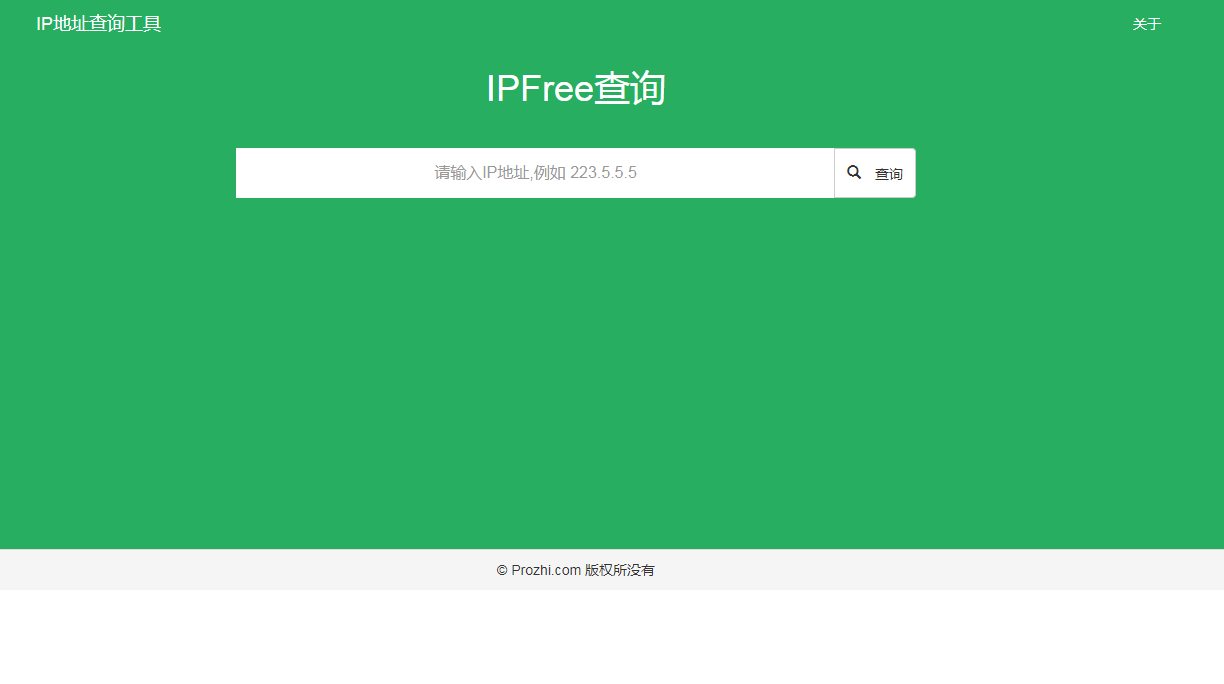
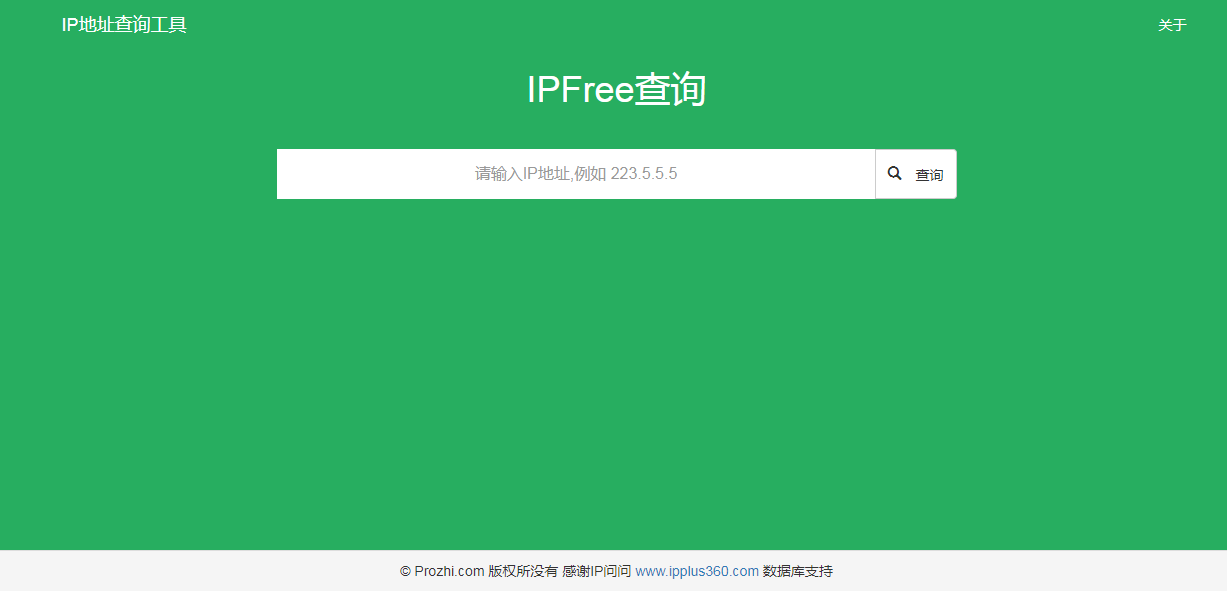
更新添加感谢IP问问

diff --git a/template/main.html b/template/main.html
@@ -103,7 +103,7 @@
 
 <div class="row">
     <div class="col-md-12 text-center panel-footer">
-        © Prozhi.com 版权所没有
+        © Prozhi.com 版权所没有  感谢IP问问 <a href="http://www.ipplus360.com">www.ipplus360.com</a> 数据库支持
     </div>
 </div>
     <script src=" {{ static_url('js/jquery.min.js')}}"></script>
